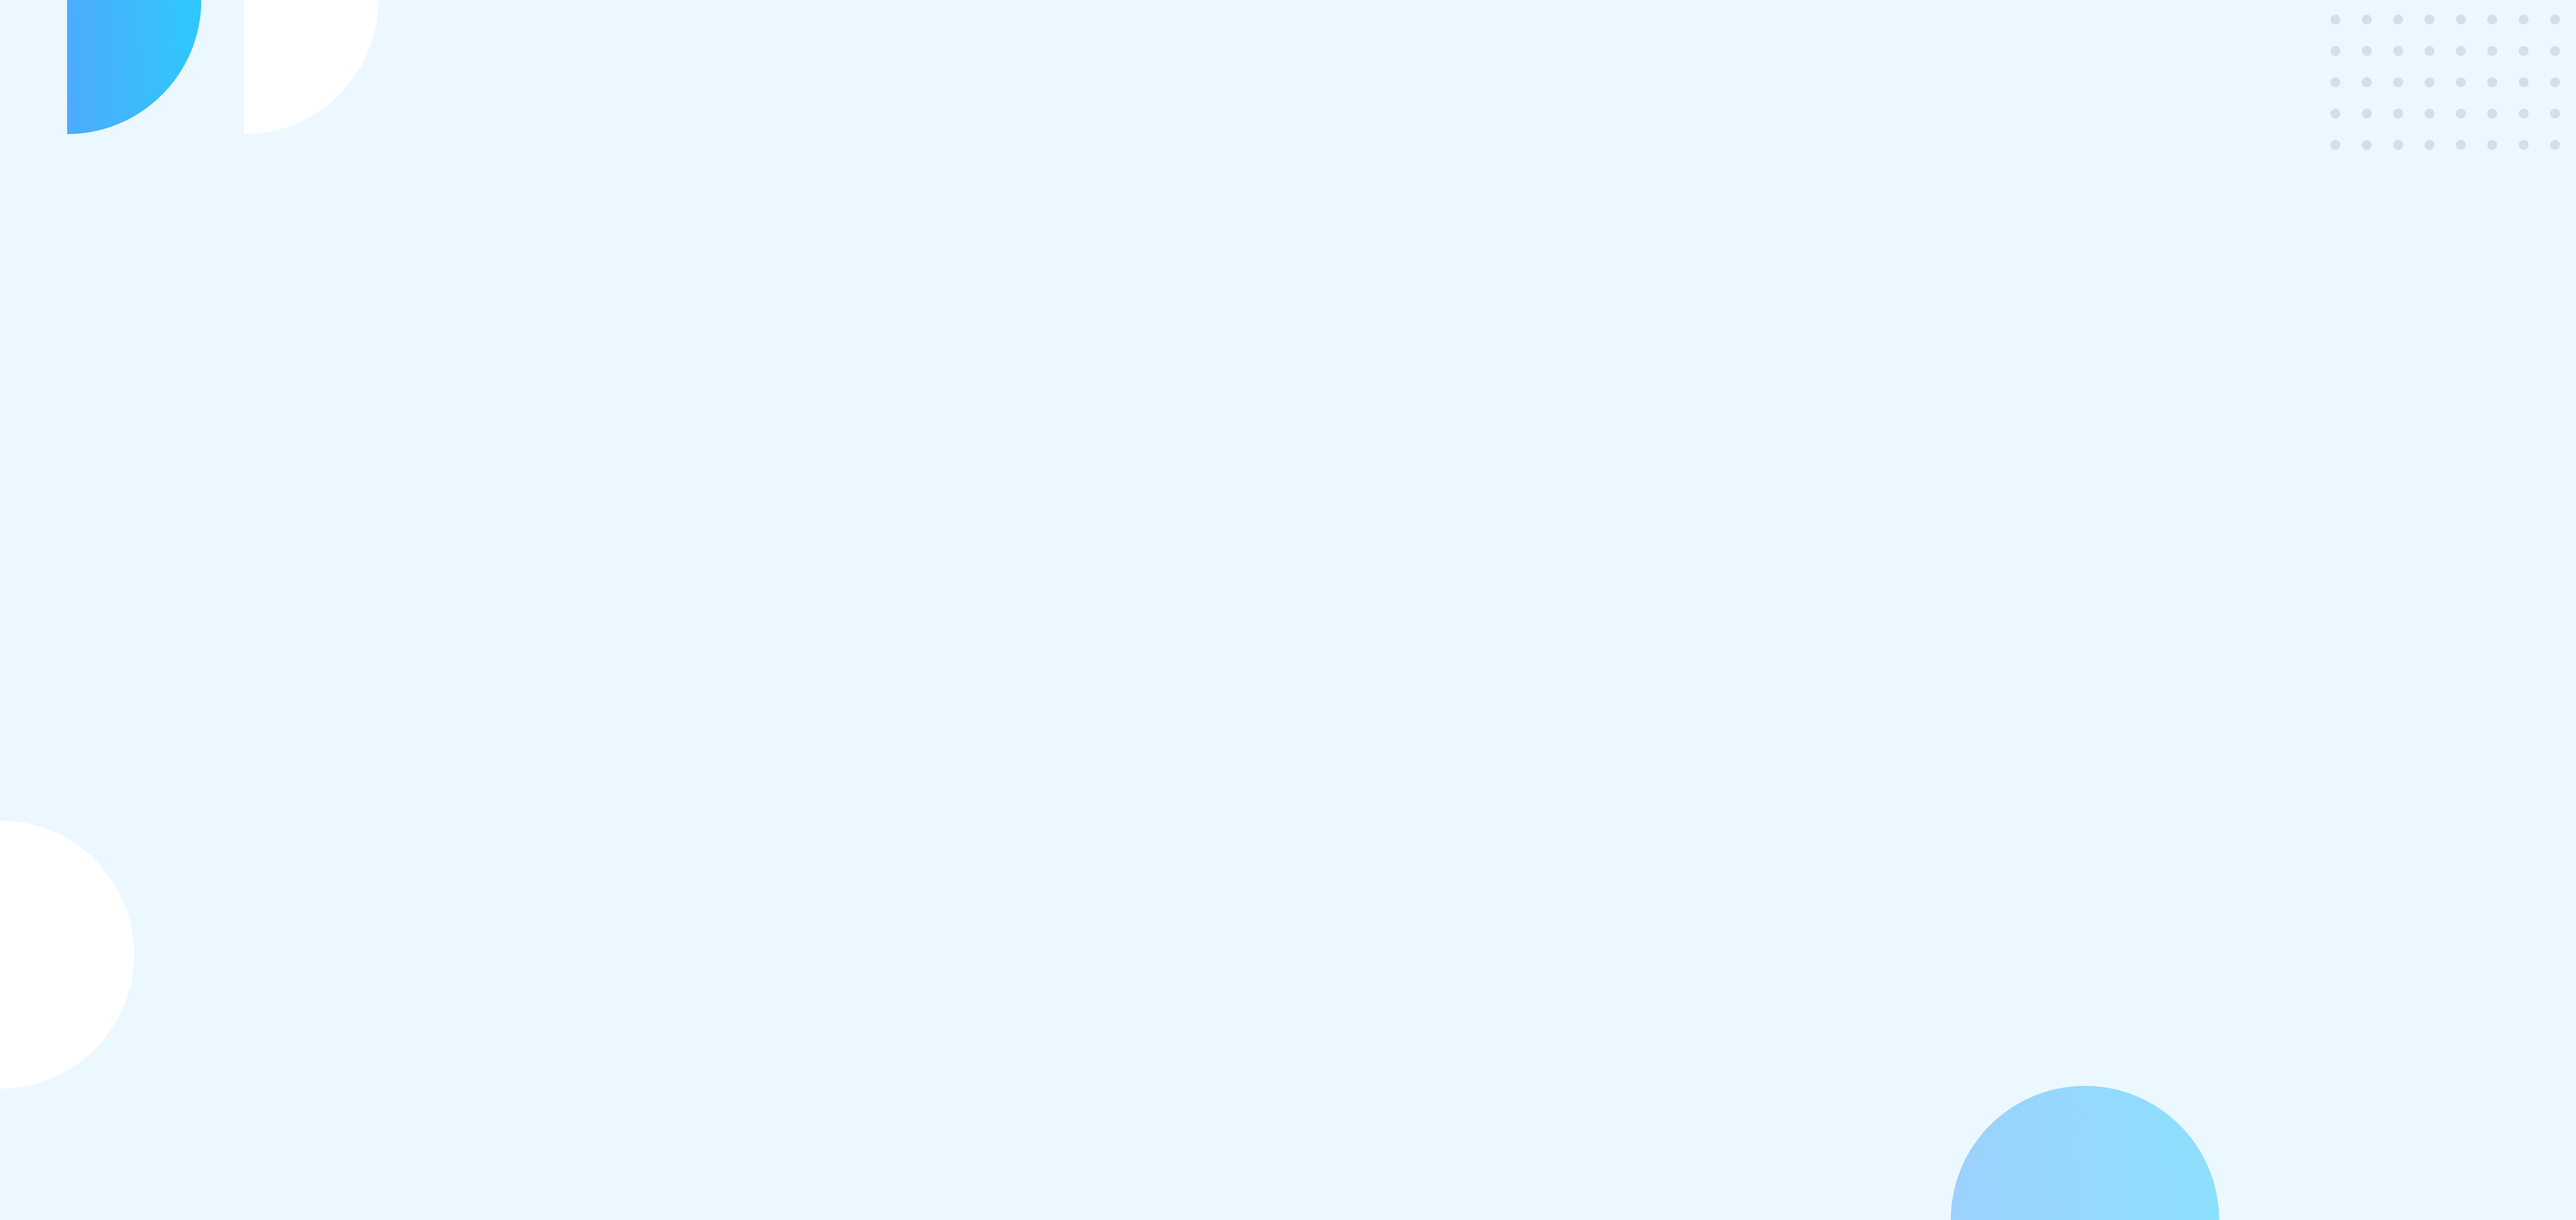
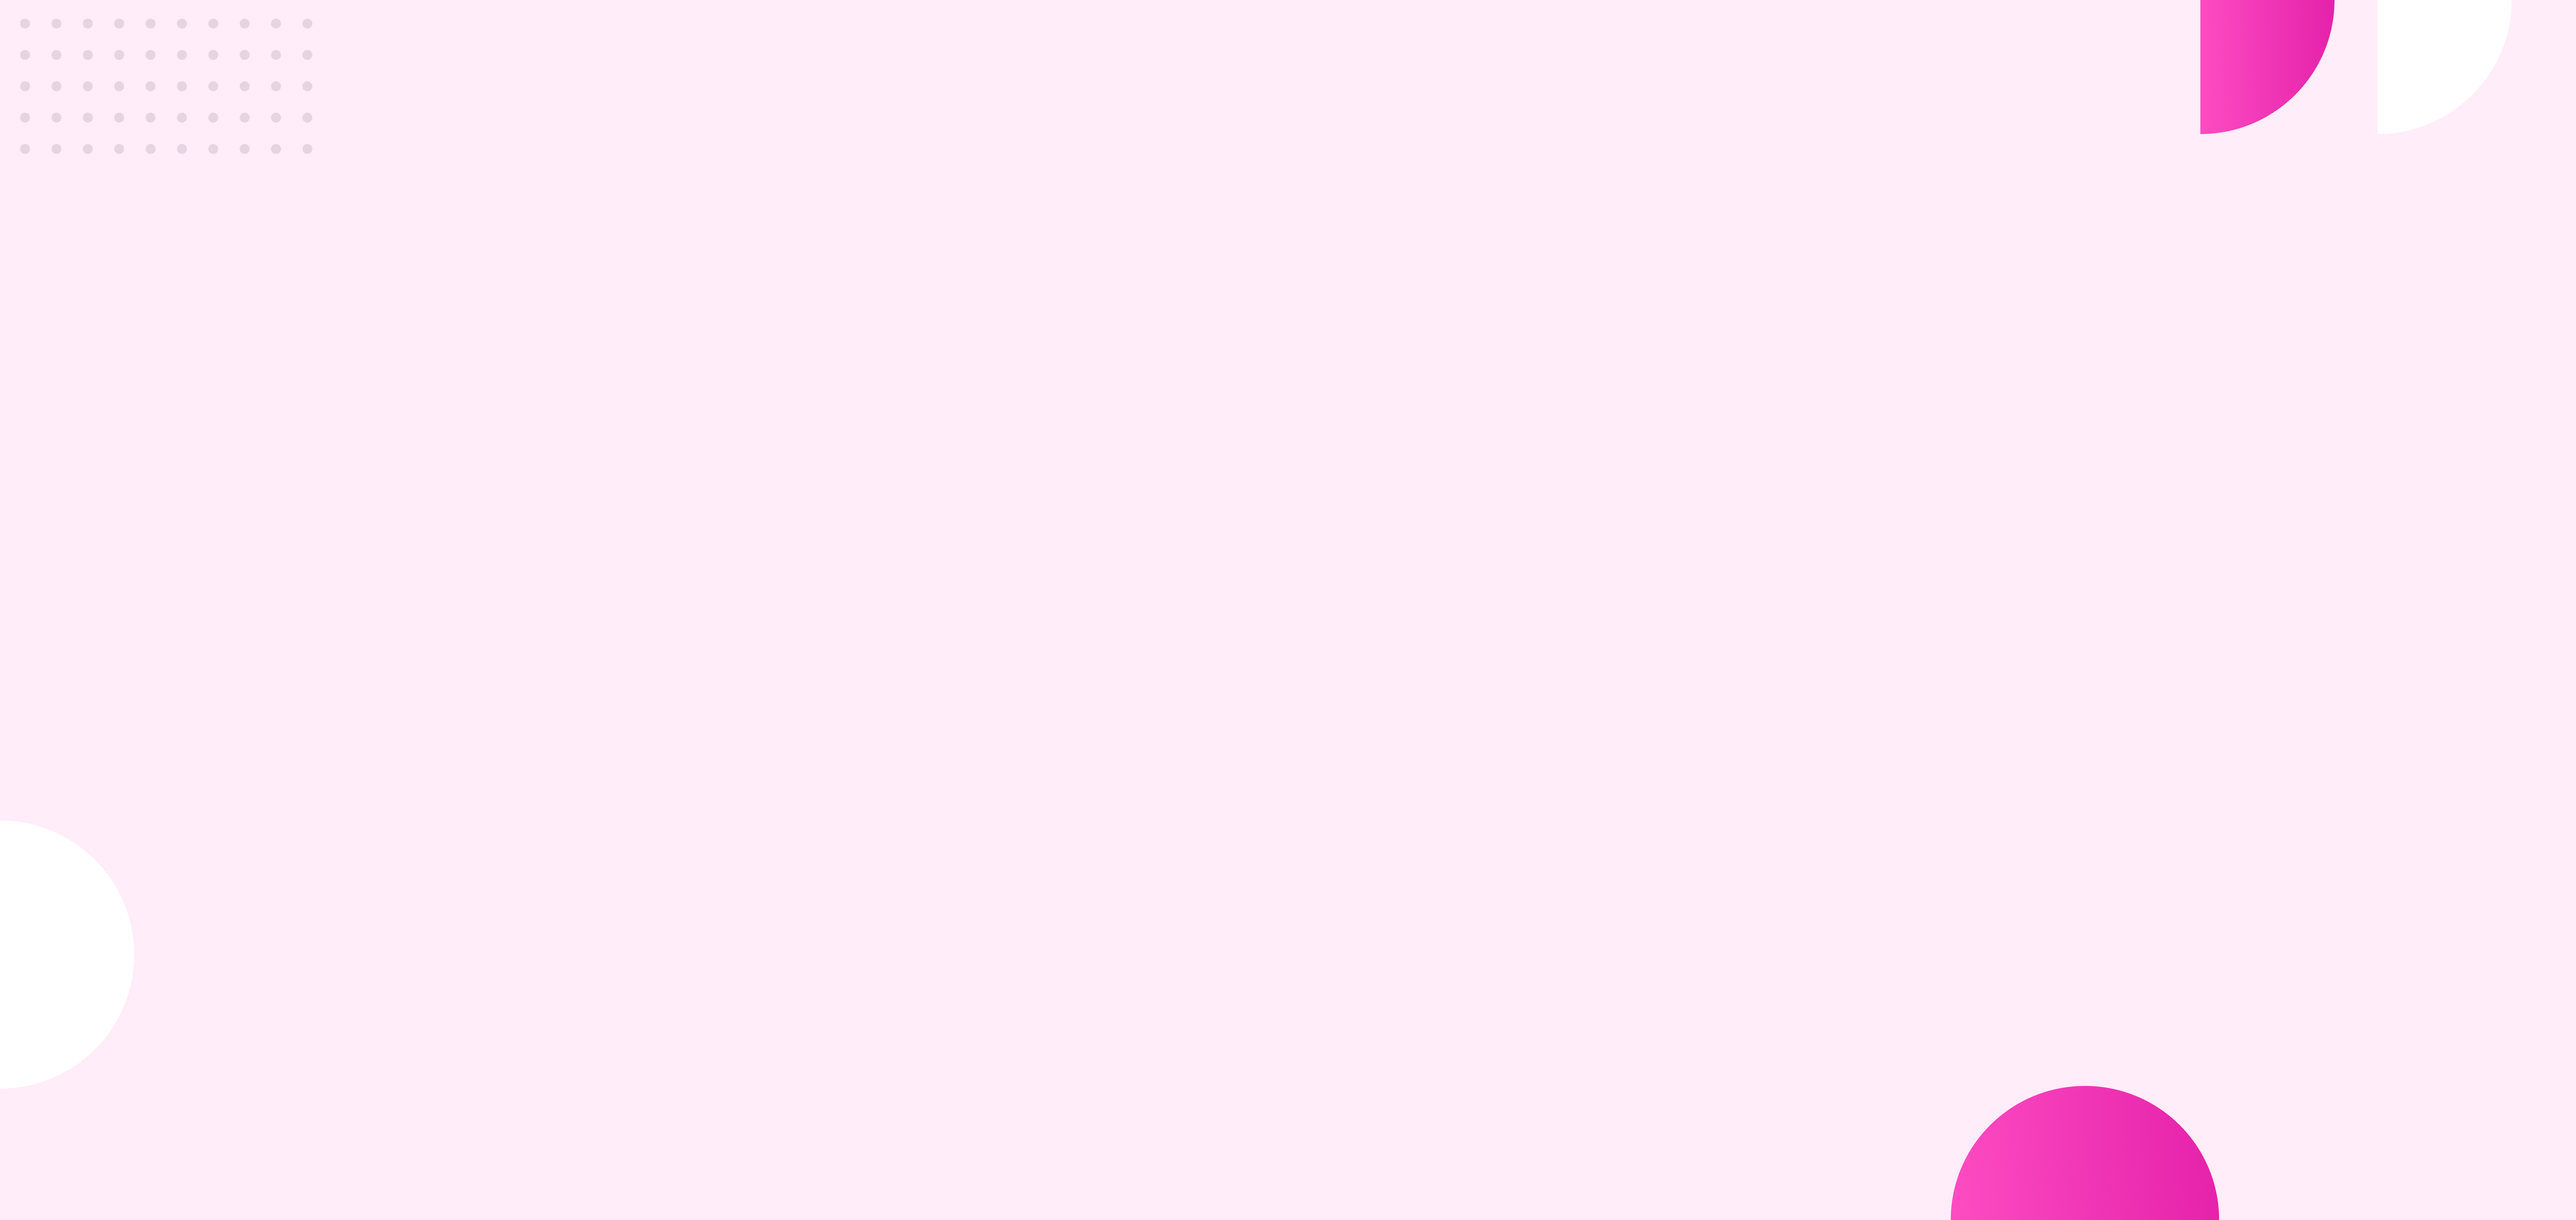
Assignment Done

diff --git a/index.html b/index.html
@@ -11,17 +11,95 @@
     <link rel="stylesheet" href="style.css">
 </head>
 <body>
-    <!-- top-banner -->
-    <section class="container">
+    <!-- Nav-ber -->
+    <nav class="nav-ber">
+        <div class="logo">
+            <a href="#">Food Network</a>
+        </div>
+        <div class="nav-item">
+            <ul>
+                <li>HOME</li>
+                <li>ABOUT</li>
+                <li>RECIPIES</li>
+                <li>CONTACT</li>
+            </ul>
+        </div>
+    </nav>
+
+    <!-- top-banner section-->
+    <section class="container top-banner">
         <div class="half-width">
             <h1 id="bigger-heading"><span class="line-highlight">Skip</span> The Diet,<br> Just Eat Healthy <br> With Food Network</h1>
             <p>Unhealthy eating patterns can send stress levels skyrocketing and potentially increase your risk of health problems in the future if you don’t address them.  a well-balanced and nutritious diet was likely the single most important ingredient for good health. </p><br>
-            <a class="link-btn" href="https://www.linkedin.com/in/ashik-rahman100?fbclid=IwAR2wEds41j8XF-3U2BFrAToI6c8d5MMTiqEBvs9SfNrLK6JBRUXp8Qk3C4M" target="_blank">Order Food</a>
+            <a class="link-btn" href="https://www.doordash.com/" target="_blank">Order Food</a>
         </div>
         <div class="half-width">
             <img src="images/female/person1.png" alt="">
         </div>
     </section>
+
+    <!-- About Section -->
+    <section class="container about-container">
+        <div class="half-width">
+            <img src="images/female/person2.png" alt="">
+        </div>
+        <div class="half-width" id="about-content">
+            <h1>About Me</h1>
+            <p>Cooking has been one of the greatest teachers in developing my character. It can be instantly rewarding — a grand celebration of flavor. Or it can turn quickly into a life lesson, keeping you humble with lots of opportunities to learn about loss, imperfection, acceptance, perseverance, grief, willingness and ultimately a simple forgiveness that leaves you with a choice to either throw in the dishtowel or try, try again.</p><br>
+            <a class="link-btn" target="_blank" href="https://www.linkedin.com/in/ashik-rahman100?fbclid=IwAR2wEds41j8XF-3U2BFrAToI6c8d5MMTiqEBvs9SfNrLK6JBRUXp8Qk3C4M">Contact Me</a>
+        </div>
+    </section>
     
+    <!-- Recipies -->
+    <section class="recipies-container">
+        <div class="recipies-discrip">
+            <h1>My Recipies</h1>
+            <p><q> Creating healthy meals doesn’t have to involve a huge investment of effort.</q>I also make Good Food Morog Polao (Chicken Pilaf), Bhuna Khichuri,Lassi and Borhani,Sweets,Pithas (Rice Cakes)</p>
+        </div>
+        <div class="container recipies-blog">
+            <div class="food-item">
+                <img src="images/food/food1.jpg" alt="">
+                <h2>Hot Dogs</h2>
+                <p>"Take me out to the ballgame!" We're kickstarting this list with the signature food of America's favorite pastime; it's no wonder why there's a brand of hot dogs called Ballpark. The hot dog is said to have gotten its name from a cartoonist for the New York Journal named Tad Dorgan in 1901.</p>
+            </div>
+            <div class="food-item">
+                <img src="images/food/food2.jpg" alt="">
+                <h2>Grilled cheese</h2>
+                <p>Grilled cheese may just be the greatest thing since sliced bread. Otto Frederick Rohwedder introduced the U.S. to sliced bread in 1928 with his bread slicing machine. About 12 years before this, James L., toasted cheese sandwiches with tomato soup was a cheap meal to put together for a house full of kids.</p>
+            </div>
+            <div class="food-item">
+                <img src="images/food/food3.png" alt="">
+                <h2>Chili</h2>
+                <p>Grilled cheese may just be the greatest thing since sliced bread. Otto Frederick Rohwedder introduced the U.S. to sliced bread in 1928 with his bread slicing machine. About 12 years before this, toasted cheese sandwiches with tomato soup was a cheap meal to put together for a house full of kids.</p>
+            </div>
+        </div>
+    </section>
+    
+        <!-- Social-media  section-->
+       <section class="container social-activity ">
+            <div class="social-media">
+                <img src="images/social-media/youtube.png" alt="">
+                <h2>700k</h2>
+                <p>Youtube Subscriber</p>
+            </div>
+            <div class="social-media">
+                <img src="images/social-media/instagram.png" alt="">
+                <h2>2.4m</h2>
+                <p>Instagram Followers</p>
+            </div>
+            <div class="social-media">
+                <img src="images/social-media/dribble.png" alt="">
+                <h2>100k</h2>
+                <p>Dribble Shot Likes</p>
+            </div>
+       </section>
+
+       <!-- Footer section -->
+       <section>
+           <footer>
+               <h1><span class="line-highlight">FOOD</span>  NETWORK</h1>
+               <p>Eating wholesome meals can even add joy to your life. When your body feels healthier, you feel happier—inside and out.</p>
+           </footer>
+       </section>
 </body>
 </html>

diff --git a/style.css b/style.css
@@ -3,11 +3,35 @@
     font-family: 'Rubik', sans-serif;
     color: #575757;
 }
-/* top-banner */
+/* Nav-ber */
+.nav-ber{
+    display:flex;
+    background-color:#fdebee;
+    height: 50px;
+    padding: 30px 0px 0px 30px;
+    font-size: 20px;
+}
+.logo a{
+    text-decoration:none; 
+    font-weight: bold;
+    margin-left: 40px;
+}
+.nav-item{
+    margin-left: 400px; 
+}
+ul li{
+    list-style: none;
+    display: inline;
+    padding-left: 70px;
+}
+/* top-banner section*/
 .container{
     display: flex;
 }
-
+.top-banner{
+    background-image: url(images/shapes/bg-1.jpg);
+    background-repeat: no-repeat;
+}
 #bigger-heading{
     font-size: 50px;
 }
@@ -17,11 +41,13 @@
 .half-width{
     width: 50%;
     padding: 5%;
+
 }
 .half-width img {
     width: 80%;
+    
 }
-.half-width p {
+.half-width p  {
     margin-top: 20px;
 }
 .link-btn{
@@ -30,4 +56,51 @@
     border-radius: 20px;
     color: #fff;
     background-image: linear-gradient(to right,tomato,salmon);
+}
+/* About secton */
+.about-container{
+    background-image: url(images/shapes/bg-2.jpg);
+    background-repeat: no-repeat;
+}
+#about-content{
+    margin-top: 100px;
+    padding:50px ;
+}
+/* Recipies-container */
+.recipies-discrip{
+    margin: 60px 450px 0px 500px;
+    padding: 20px;
+    text-align: center;
+}
+.food-item{
+    background-color: #fff;
+    margin: 0px 40px 20px 60px;
+    padding: 20px;
+    text-align: center;
+    box-shadow: 10px 10px 20px gray;
+    border-radius: 15px;
+}
+.food-item  img{
+    width: 100%;
+    padding-bottom: 10px;
+}
+/* social-activity section */
+.social-activity {
+    text-align: center;
+    margin-bottom: 20px;
+}
+.social-media{
+    margin-top: 50px;
+    padding-left: 190px;
+}
+.social-media img {
+    width: 100%;
+}
+/* Footer-section */
+footer{
+    text-align: center;
+    color: #fff;
+    background-color: black;
+    height: 150px;
+    padding-top: 70px;
 }
